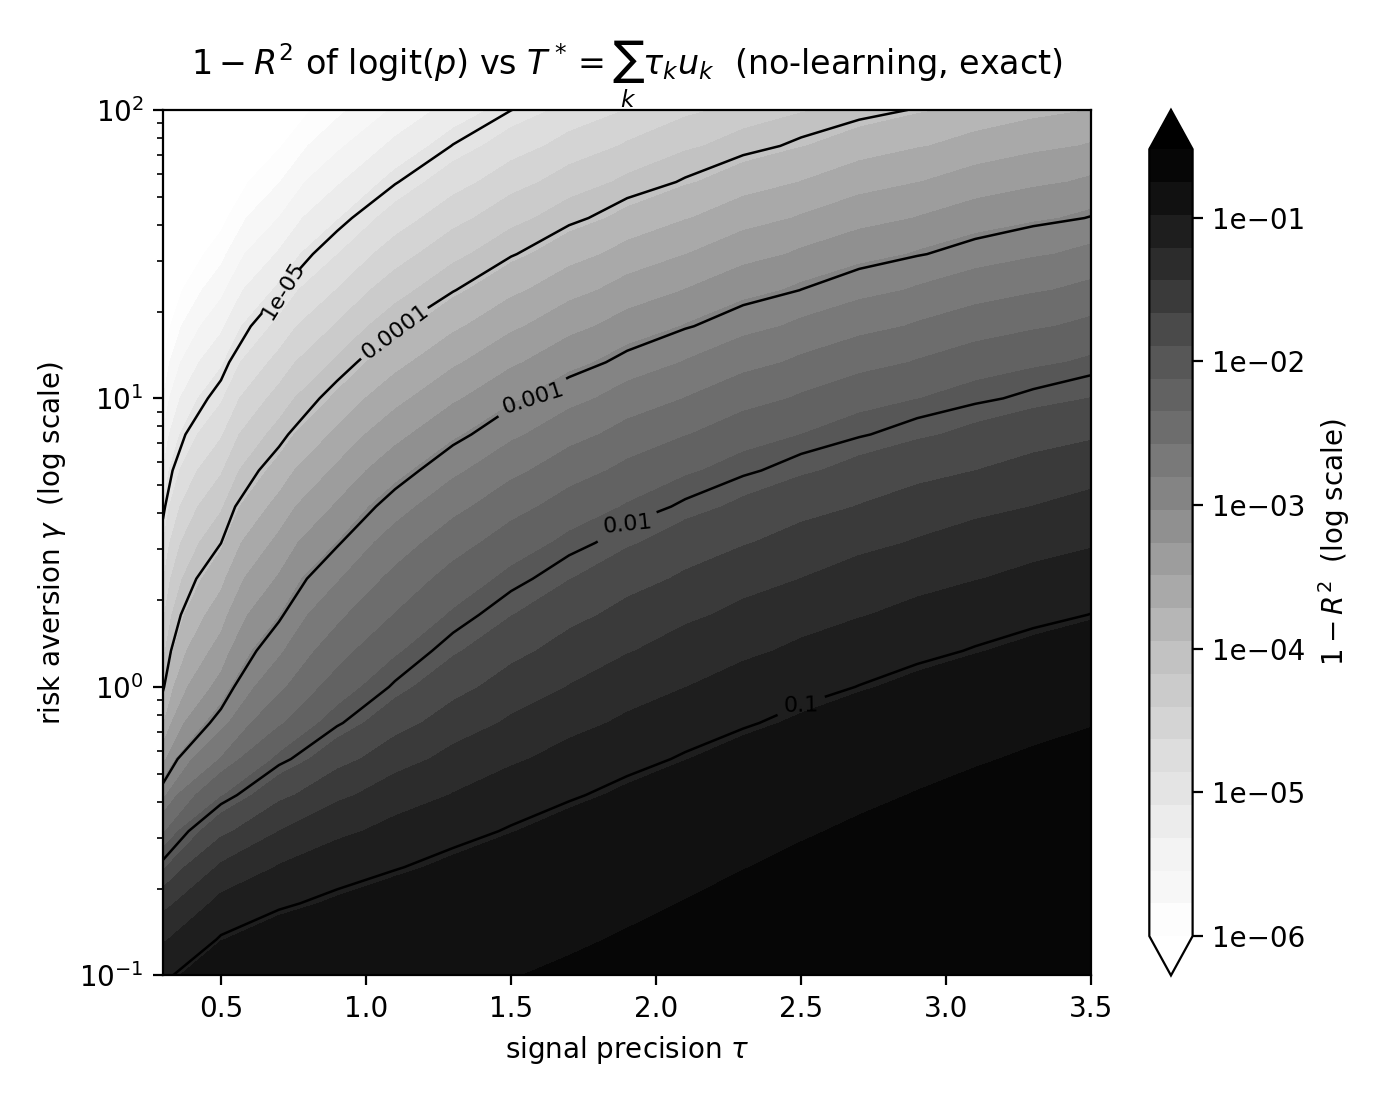
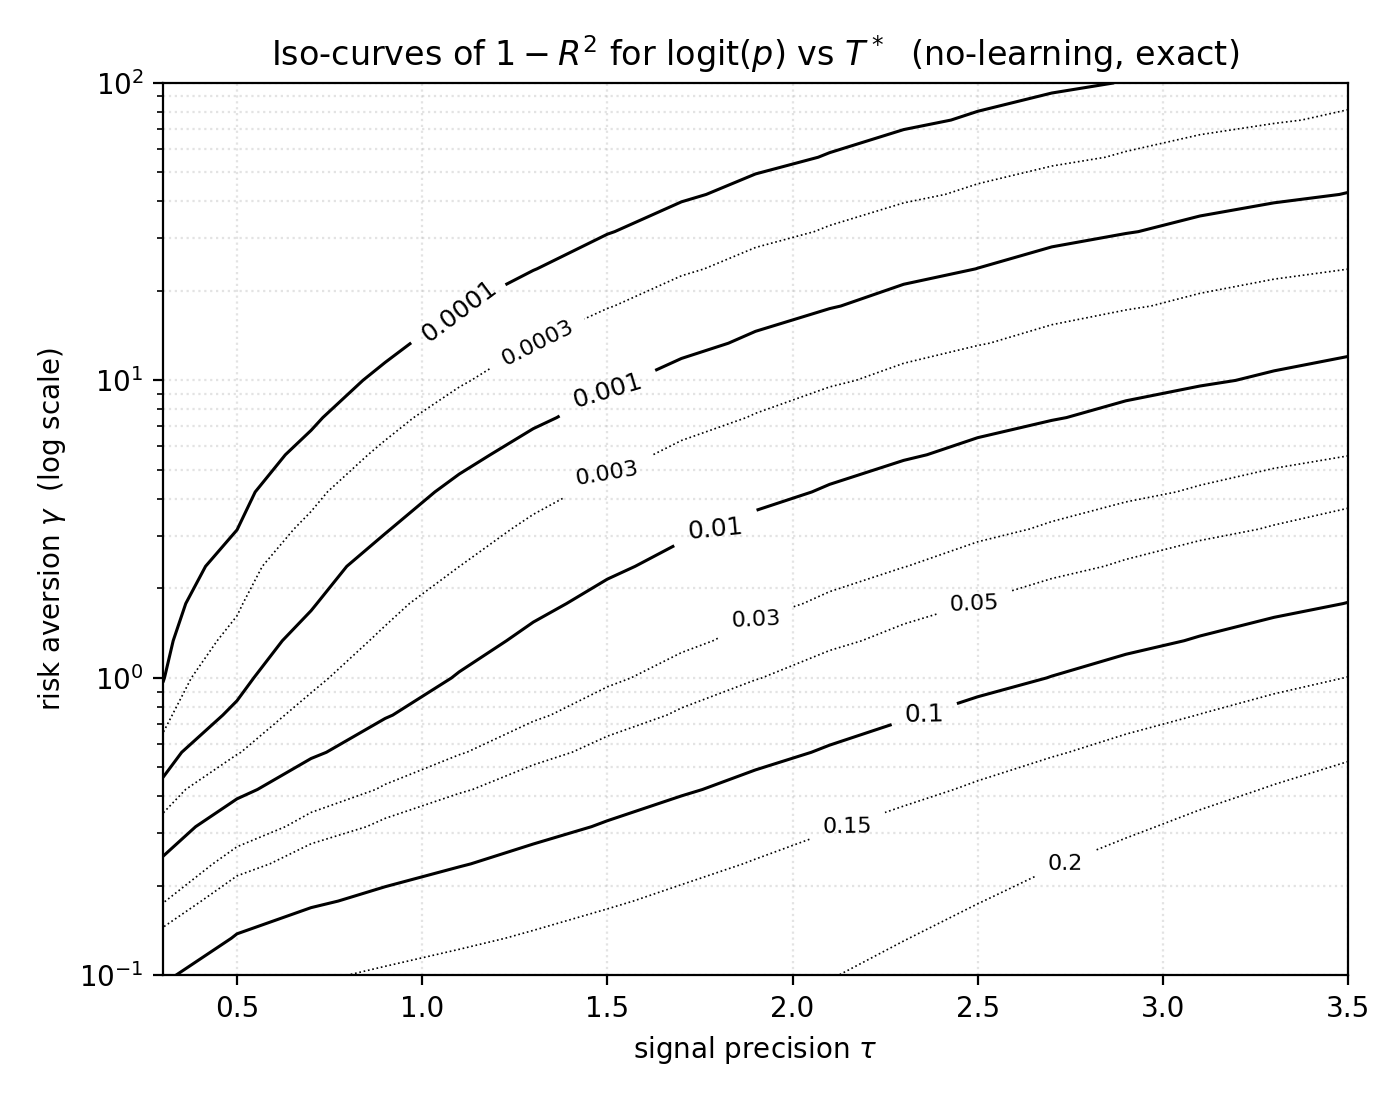
Fig 1: Econometrica-style pure-line contour (no fill)
Solid black iso-lines at decade values (1e-4, 1e-3, 1e-2, 1e-1);
dotted black at half-decade and selected reference values
(3e-4, 3e-3, 3e-2, 0.05, 0.15, 0.2). White background, log γ axis.
Inline labels on each line. No fill, no colorbar.

diff --git a/python/fig1_smooth_transition.py b/python/fig1_smooth_transition.py
@@ -59,29 +59,34 @@ def main():
                         + [f"{table[r, c]:.6e}" for c in range(len(TAUS))])
     print(f"wrote {csv_path}")
 
-    # Filled contour with log-spaced levels
+    # Pure black/white contour lines, no fill — Econometrica style.
     T_grid, G_grid = np.meshgrid(TAUS, GAMMAS)
 
     fig, ax = plt.subplots(figsize=(7, 5.5))
-    levels = np.logspace(-6, np.log10(0.3), 25)
-    cs = ax.contourf(T_grid, G_grid, table, levels=levels,
-                      cmap="Greys", norm=LogNorm(vmin=1e-6, vmax=0.3),
-                      extend="both")
-    # Labelled contour lines at decade ticks
-    line_levels = [1e-5, 1e-4, 1e-3, 1e-2, 1e-1]
-    cl = ax.contour(T_grid, G_grid, table, levels=line_levels,
-                     colors="black", linewidths=0.9)
-    ax.clabel(cl, inline=True, fontsize=8, fmt=lambda v: f"{v:g}")
+
+    # Decade contour lines
+    decade_levels = [1e-4, 1e-3, 1e-2, 1e-1]
+    cl_dec = ax.contour(T_grid, G_grid, table, levels=decade_levels,
+                         colors="black", linewidths=1.1)
+    ax.clabel(cl_dec, inline=True, fontsize=9,
+               fmt=lambda v: f"{v:g}")
+
+    # Intermediate (half-decade) lines, lighter
+    half_levels = [3e-4, 3e-3, 3e-2, 0.05, 0.15, 0.2]
+    cl_h = ax.contour(T_grid, G_grid, table, levels=half_levels,
+                      colors="black", linewidths=0.6, linestyles=":")
+    ax.clabel(cl_h, inline=True, fontsize=8,
+              fmt=lambda v: f"{v:g}")
+
     ax.set_yscale("log")
+    ax.set_xlim(TAUS.min(), TAUS.max())
+    ax.set_ylim(GAMMAS.min(), GAMMAS.max())
     ax.set_xlabel(r"signal precision $\tau$")
     ax.set_ylabel(r"risk aversion $\gamma$  (log scale)")
-    ax.set_title(r"$1 - R^2$ of logit$(p)$ vs $T^* = \sum_k \tau_k u_k$"
+    ax.set_title(r"Iso-curves of $1 - R^2$ for logit$(p)$ vs $T^*$"
                   "  (no-learning, exact)")
+    ax.grid(True, which="both", linestyle=":", alpha=0.35)
 
-    cbar = fig.colorbar(cs, ax=ax,
-                         ticks=[1e-6, 1e-5, 1e-4, 1e-3, 1e-2, 1e-1],
-                         format=LogFormatter(base=10),
-                         label=r"$1 - R^2$  (log scale)")
     fig.tight_layout()
     png = os.path.join(OUT, "fig1_smooth_transition.png")
     fig.savefig(png, dpi=200)
